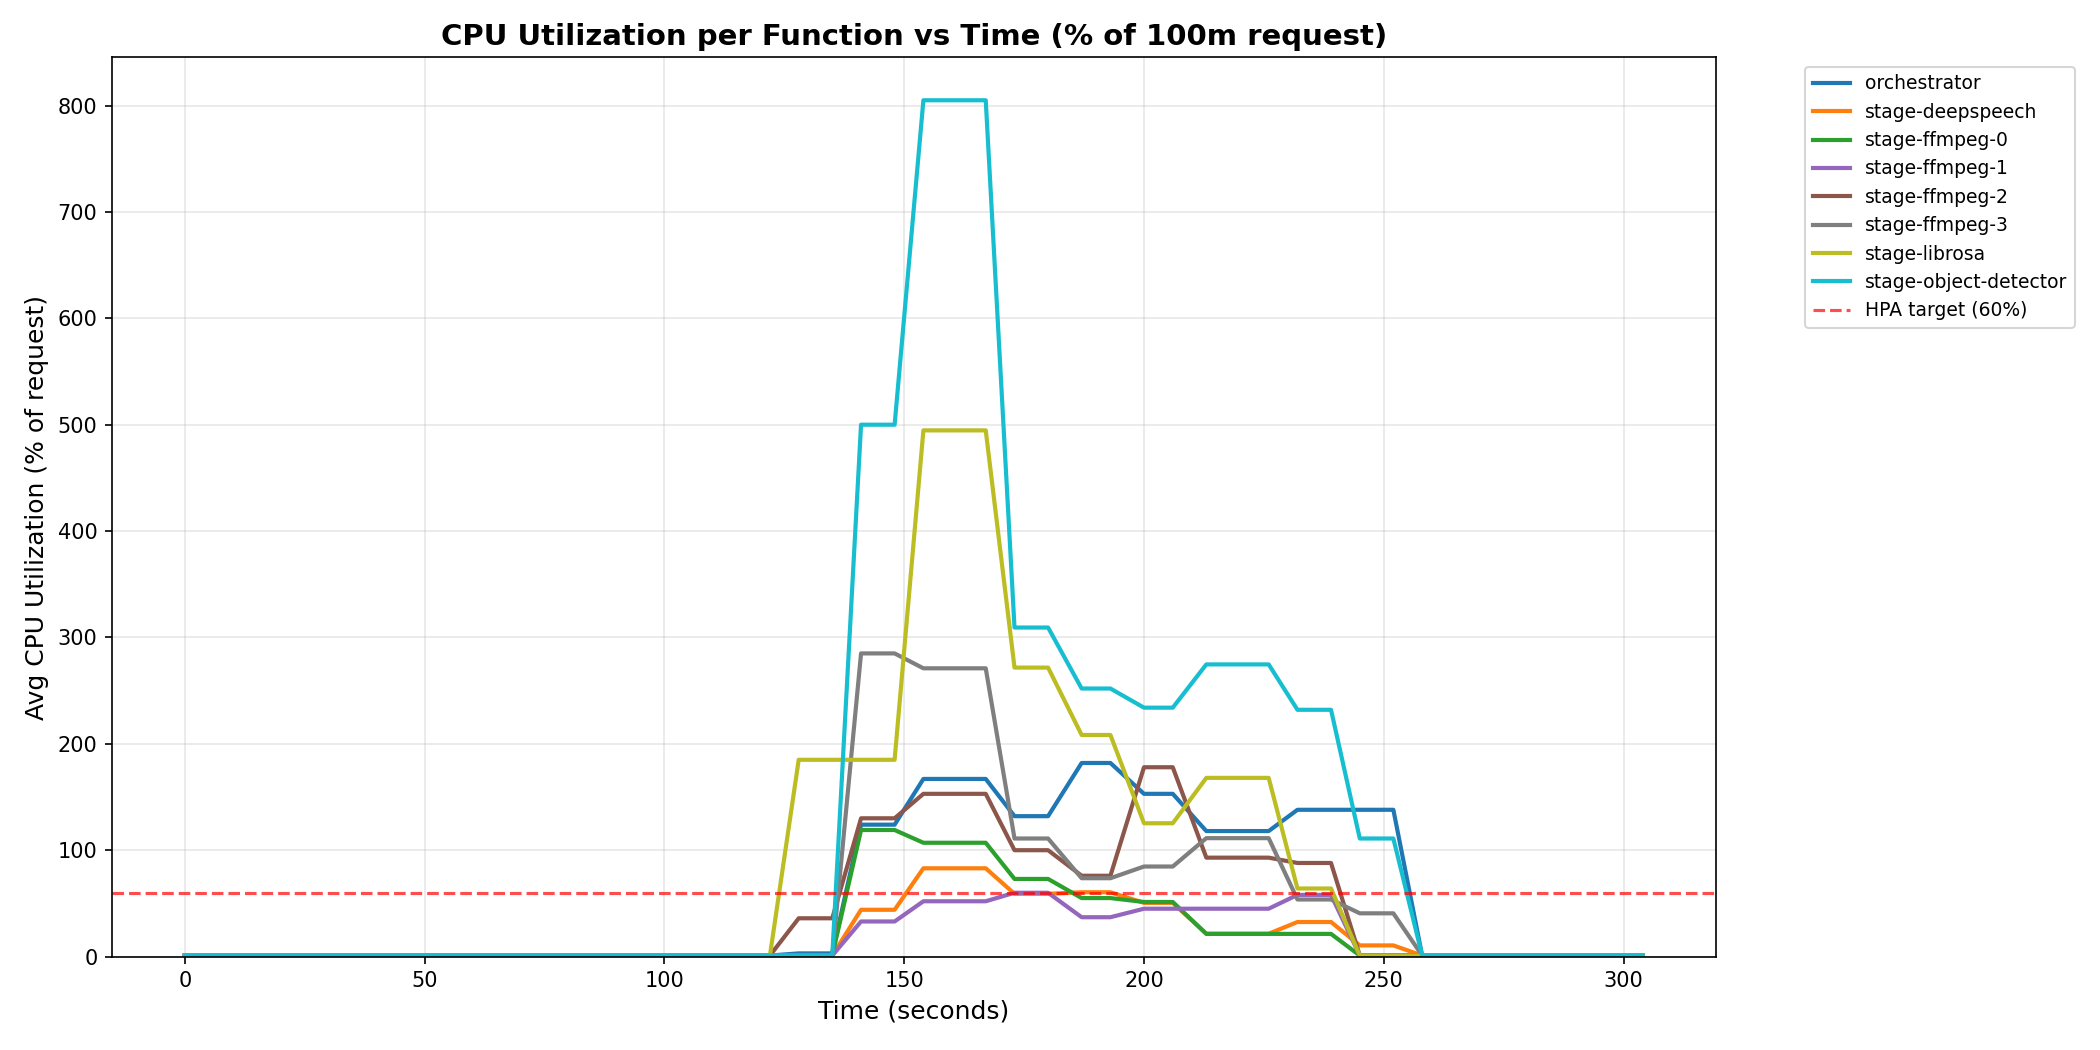
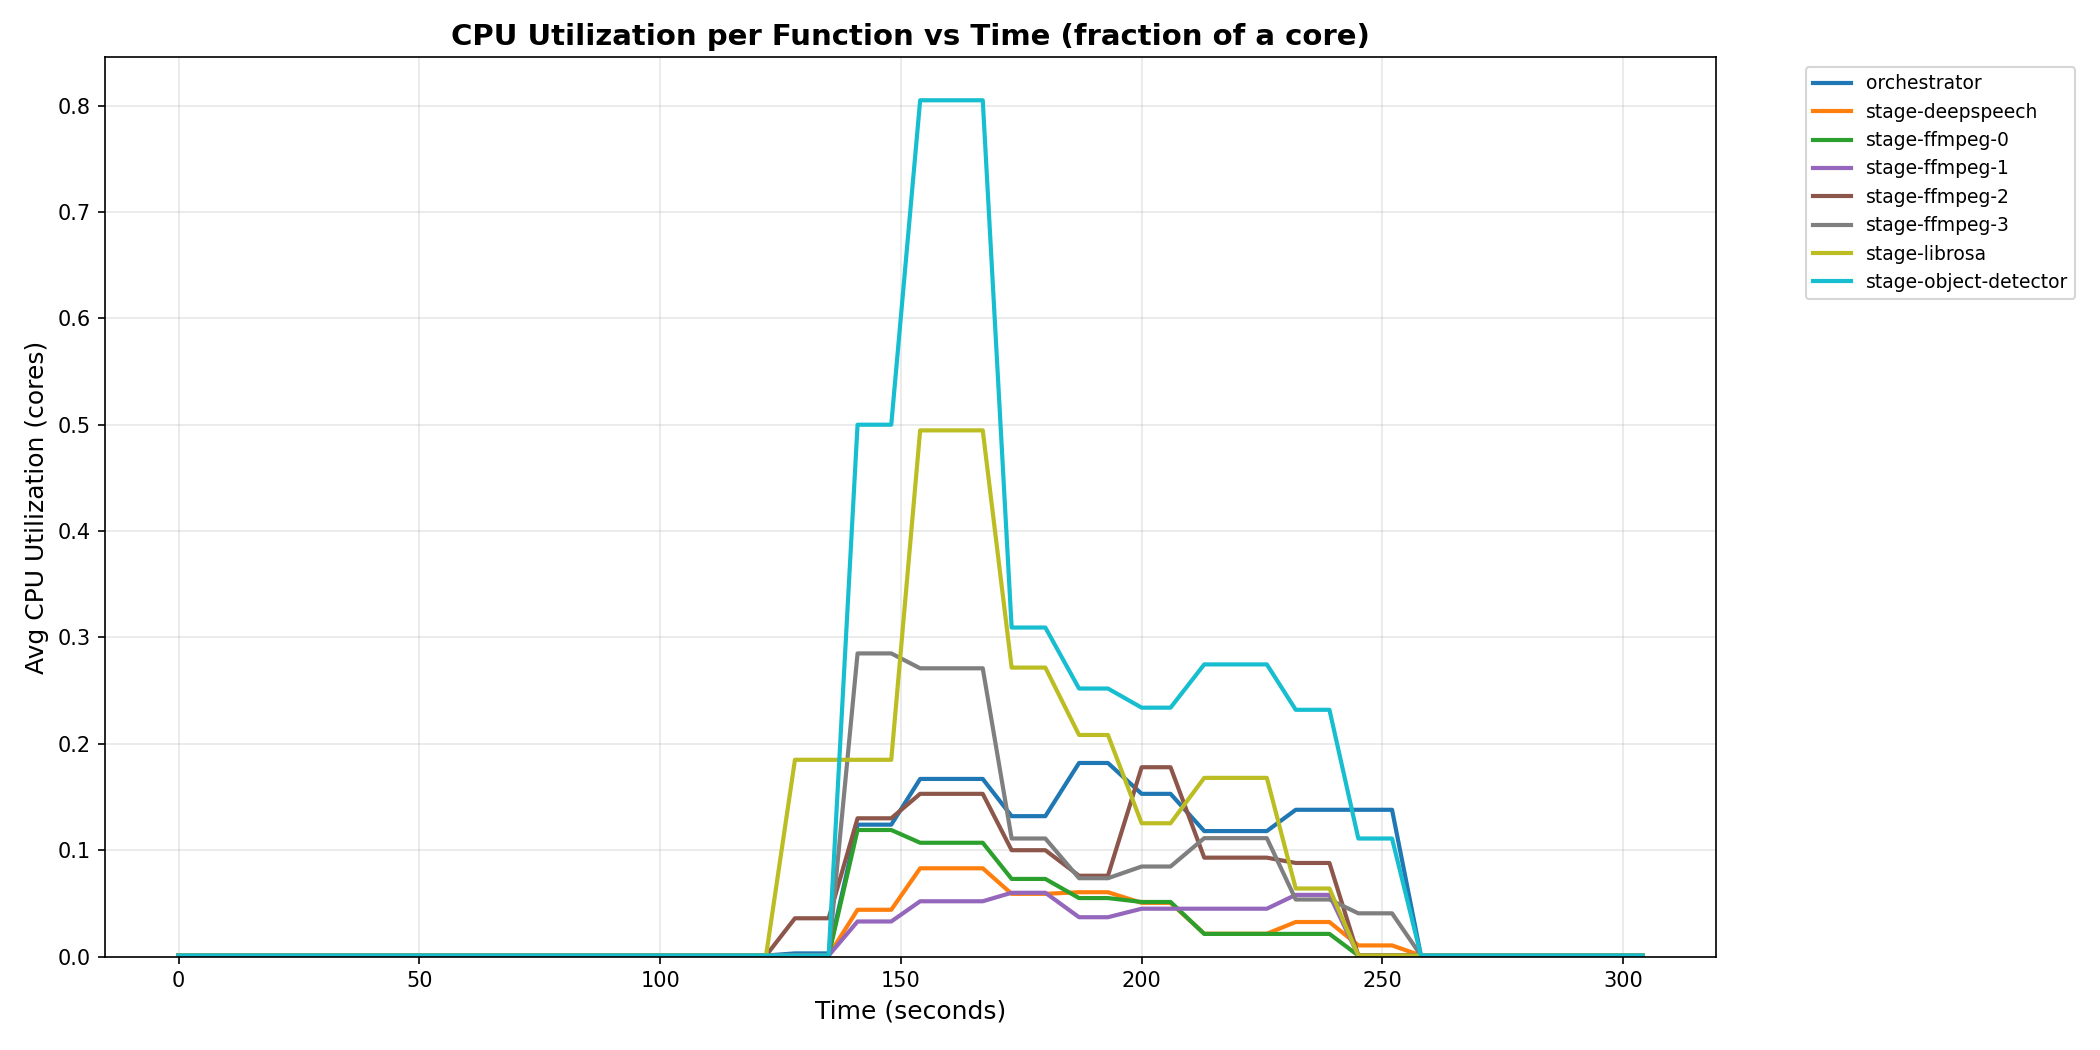
fix: show CPU utilization as fraction of a core (0-1)

diff --git a/scripts/generate_scaling_plots.py b/scripts/generate_scaling_plots.py
@@ -215,10 +215,7 @@ def plot_cpu_utilization(cpu_data, output_dir):
     plt.close(fig)
     print("  Plot 4: CPU utilization vs time saved")
 
-    # Plot 4b: CPU utilization as percentage of request (100m per pod)
-    CPU_REQUEST_M = 100  # each pod requests 100m CPU
-
-    # Count pods per function per timestamp
+    # Plot 4b: CPU utilization as fraction of a core (per pod average)
     pod_counts_per_ts = defaultdict(lambda: defaultdict(int))
     for row in cpu_data:
         pod_counts_per_ts[row["timestamp"]][row["function"]] += 1
@@ -227,19 +224,18 @@ def plot_cpu_utilization(cpu_data, output_dir):
     for func, color in zip(all_funcs, colors):
         times = sorted(agg.keys())
         elapsed = [(t - t0) for t in times]
-        # Average utilization % = total CPU / (num_pods * request) * 100
+        # Average per-pod utilization as fraction of a core
         values = []
         for t in times:
             total_cpu = agg[t].get(func, 0)
             num_pods = pod_counts_per_ts[t].get(func, 1)
-            avg_util = (total_cpu / (num_pods * CPU_REQUEST_M)) * 100
-            values.append(avg_util)
+            avg_cores = total_cpu / (num_pods * 1000.0)
+            values.append(avg_cores)
         ax.plot(elapsed, values, label=func, linewidth=2, color=color)
 
-    ax.axhline(y=60, color="red", linestyle="--", linewidth=1.5, alpha=0.7, label="HPA target (60%)")
     ax.set_xlabel("Time (seconds)", fontsize=12)
-    ax.set_ylabel("Avg CPU Utilization (% of request)", fontsize=12)
-    ax.set_title("CPU Utilization per Function vs Time (% of 100m request)", fontsize=14, fontweight="bold")
+    ax.set_ylabel("Avg CPU Utilization (cores)", fontsize=12)
+    ax.set_title("CPU Utilization per Function vs Time (fraction of a core)", fontsize=14, fontweight="bold")
     ax.legend(bbox_to_anchor=(1.05, 1), loc="upper left", fontsize=9)
     ax.grid(True, alpha=0.3)
     ax.set_ylim(bottom=0)
